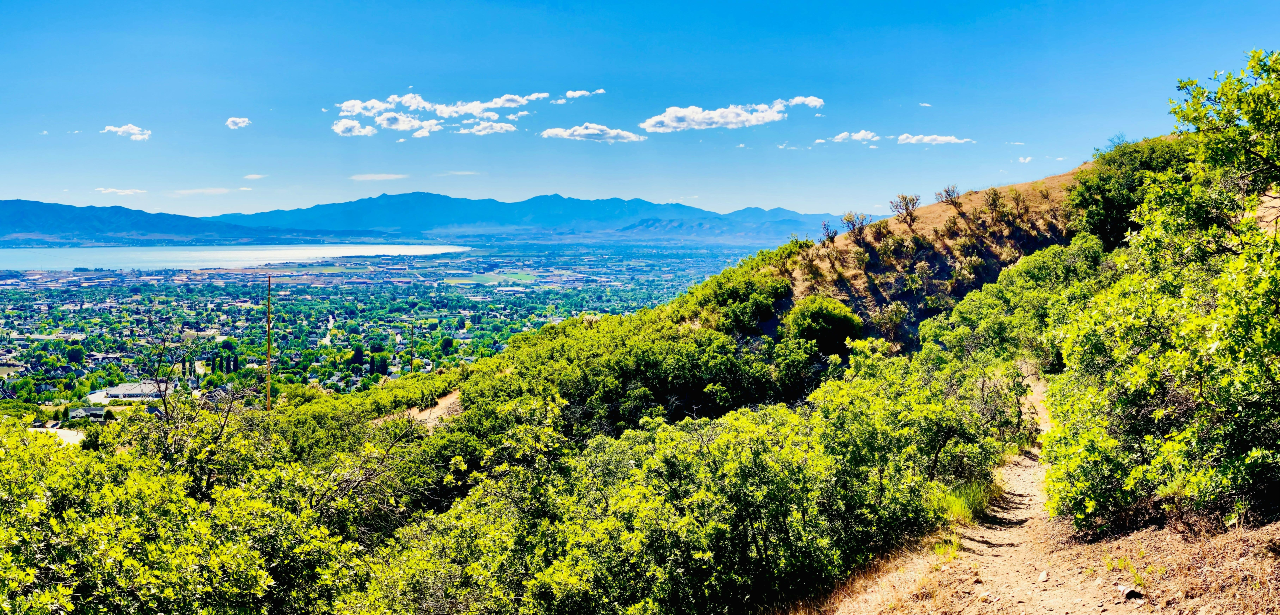
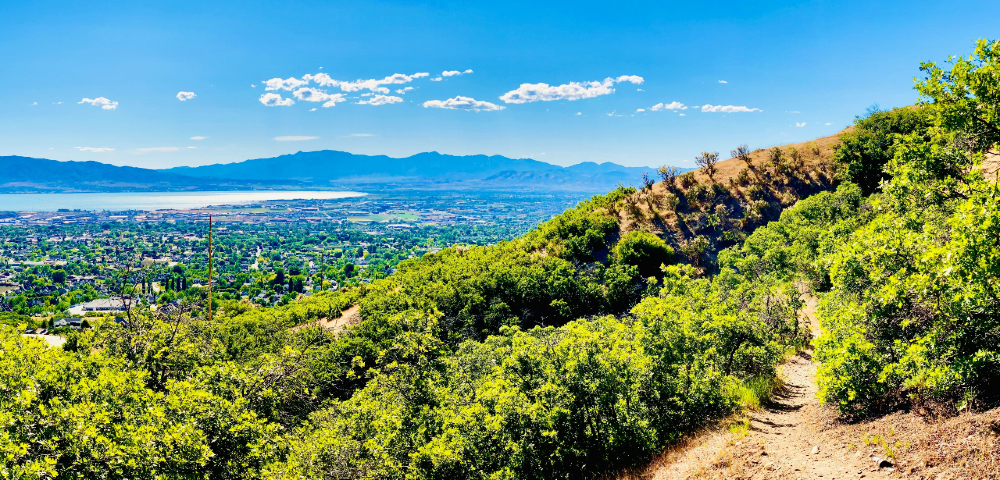
changed size of pictures

diff --git a/chamber/discover.html b/chamber/discover.html
@@ -95,46 +95,46 @@
                 <p>Residents used 1.1 billion gallons of secondary water last year.</p>
             </section>
 
-            <figure class="img-1">
-                <source srcset="images/lindon-smaller.webp" media="(max-width: 600px)">
-                <img id="lindon-img" src="images/lindon-trail.webp" alt="heritage trail" width="375" height="500" loading="lazy">
-                <figcaption>Heritage Trail</figcaption>
-            </figure>
-            <figure class="img-2">
-                <source srcset="images/lindon-smaller.webp" media="(max-width: 600px)">
-                <img id="lindon-img" src="images/utah-lake.webp" alt="utah lake" width="640" height="340" loading="lazy">
-                <figcaption>Utah Lake</figcaption>
-            </figure>
-            <figure class="img-3">
-                <source srcset="images/lindon-smaller.webp" media="(max-width: 600px)">
-                <img id="lindon-img" src="images/wadley-farms.webp" alt="wadley farms" width="1000" height="667" loading="lazy">
-                <figcaption>Wadley Farms Event Venue</figcaption>
-            </figure>
-            <figure class="img-4">
-                <source srcset="images/lindon-smaller.webp" media="(max-width: 600px)">
-                <img id="lindon-img" src="images/lindon-temple.webp" alt="lindon temple" width="720" height="720" loading="lazy">
-                <figcaption>Lindon LDS Temple</figcaption>
-            </figure>
-            <figure class="img-5">
-                <source srcset="images/lindon-smaller.webp" media="(max-width: 600px)">
-                <img id="lindon-img" src="images/lindon-days.webp" alt="lindon days" width="383" height="480" loading="lazy">
-                <figcaption>Lindon Days</fi>
-            </figure>
-            <figure class="img-6">
-                <source srcset="images/lindon-smaller.webp" media="(max-width: 600px)">
-                <img id="lindon-img" src="images/aquatics-center.webp" alt="lindon aquatics center" width="750" height="465" loading="lazy">
-                <figcaption>Lindon Aquatics Center</f>
-            </figure>
-            <figure class="img-7">
-                <source srcset="images/lindon-smaller.webp" media="(max-width: 600px)">
-                <img id="lindon-img" src="images/harley-davidson.webp" alt="harley davidson store" width="600" height="404" loading="lazy">
-                <figcaption>Timpanogos Harley Davidson</figcaption>
-            </figure>
-            <picture class="img-8">
-                <source srcset="images/artisan-small.webp" media="(max-width: 600px)">
-                <img id="lindon-img" src="images/artisan.webp" alt="artisan on state hair salon" width="960" height="1280" loading="lazy">
+            <picture class="img-1">
+                <source srcset="images/lindon-trail-small.webp" media="(max-width: 499px)">
+                <img class="lindon-img" src="images/lindon-trail.webp" alt="heritage trail" width="1000" height="480" loading="lazy">
+                <p>Heritage Trail</p>
             </picture>
-            <p>Artisan Hair Salon on State</p>
+            <picture class="img-2">
+                <source srcset="images/utah-lake-small.webp" media="(max-width: 499px)">
+                <img class="lindon-img" src="images/utah-lake.webp" alt="utah lake" width="640" height="340" loading="lazy">
+                <p>Utah Lake</p>
+            </picture>
+            <picture class="img-3">
+                <source srcset="images/wadley-farms-small.webp" media="(max-width: 499px)">
+                <img class="lindon-img" src="images/wadley-farms.webp" alt="wadley farms" width="1000" height="667" loading="lazy">
+                <p>Wadley Farms Event Venue</p>
+            </picture>
+            <picture class="img-4">
+                <source srcset="images/lindon-temple-small.webp" media="(max-width: 499px)">
+                <img class="lindon-img" src="images/lindon-temple.webp" alt="lindon temple" width="720" height="720" loading="lazy">
+                <p>Lindon LDS Temple</p>
+            </picture>
+            <picture class="img-5">
+                <source srcset="images/lindon-days-small.webp" media="(max-width: 499px)">
+                <img class="lindon-img" src="images/lindon-days.webp" alt="lindon days" width="1000" height="1376" loading="lazy">
+                <p>Lindon Days</fi>
+            </picture>
+            <picture class="img-6">
+                <source srcset="images/aquatics-center-small.webp" media="(max-width: 499px)">
+                <img class="lindon-img" src="images/aquatics-center.webp" alt="lindon aquatics center" width="750" height="465" loading="lazy">
+                <p>Lindon Aquatics Center</f>
+            </picture>
+            <picture class="img-7">
+                <source srcset="images/harley-davidson-small.webp" media="(max-width: 499px)">
+                <img class="lindon-img" src="images/harley-davidson.webp" alt="harley davidson store" width="600" height="404" loading="lazy">
+                <p>Timpanogos Harley Davidson</p>
+            </picture>
+            <picture class="img-8">
+                <source srcset="images/artisan-small.webp" media="(max-width: 499px)">
+                <img class="lindon-img" src="images/artisan.webp" alt="artisan on state hair salon" width="960" height="1280" loading="lazy">
+                <p>Artisan Hair Salon on State</p>
+            </picture>
 
         </div>
     </main>

diff --git a/chamber/styles/base.css b/chamber/styles/base.css
@@ -1,5 +1,5 @@
 @import url('https://fonts.googleapis.com/css2?family=Lora&family=Cabin:ital,wght@0,400;0,700;1,400&display=swap');
-@media only screen and (max-width: 600px) {
+@media only screen and (max-width: 499px) {
 
     /* || General Styling */
     
@@ -26,6 +26,11 @@
         overflow: hidden;
     }
 
+    img {
+		max-width: 100%;
+		max-height: 100%;
+		align-content: center;
+	}
     /* || Header & Nav Bar Styling */
 
 
@@ -112,7 +117,6 @@
         margin-left: auto;
         margin-right: auto;
         display: block;
-        opacity: .5;
     }
 
     .hero-small {
@@ -250,81 +254,10 @@
 
     #weather-img {
         display: none;
-    }
-
-        /* || Discovery - Main Images */
-
-
-        .discovery-grid {
-            display: flex;
-            flex-direction: column;
-            /* grid-gap: 10px;
-            grid-template-columns: 30% 70%;
-            grid-template-rows: 5%; */
-            text-align: center;
-            margin-top: 50px;
-        }
-
-        .info {
-            padding: 10px;
-            /* grid-column: 1; */
-        }
-
-        /* .img-1 {
-            object-fit: contain;
-            grid-column: 2;
-            grid-row: 1;
-    
-        }
-    
-        .img-2 {
-            grid-column: 2;
-            grid-row: 2;
-            object-fit: cover;
-        }
-    
-        .img-3 {
-            grid-column: 2;
-            grid-row: 3;
-            object-fit: cover;
-        }
-    
-        .img-4 {
-            grid-column: 2;
-            grid-row: 4;
-            object-fit: cover;
-        }
-    
-        .img-5 {
-            grid-column: 2;
-            grid-row: 5;
-        }
-    
-        .img-6 {
-            grid-column: 2;
-            grid-row: 6;
-        }
-    
-        .img-7 {
-            grid-column: 2;
-            grid-row: 7;
-        }
-    
-        .img-8 {
-            grid-column: 2;
-            grid-row: 8;
-        } */
-    
-    
-            /* || Discovery - Sidebar */
-    
-        .sidebar {
-            background-color: #deebff;
-        }
-    
+    }    
         
-    /* || Footer */
 
+    /* || Footer */
 
     footer {
         background-color: #475262;
@@ -364,4 +297,36 @@
     }
 
 
+    /* || Discovery - Main Images */
+
+    .discovery-grid {
+        display: flex;
+        flex-direction: column;
+        /* grid-gap: 10px;
+        grid-template-columns: 30% 70%;
+        grid-template-rows: 5%; */
+        text-align: center;
+        margin-top: 50px;
+    }
+
+    .info {
+        padding: 10px;
+        /* grid-column: 1; */
+    }
+
+    .lindon-img {
+        width: 100%;
+        height: 100%;
+        object-fit: cover;
+        margin-left: auto;
+        margin-right: auto;
+        display: block;
+    }
+    
+    
+    /* || Discovery - Sidebar */
+
+    .sidebar {
+        background-color: #deebff;
+    }
 }

diff --git a/chamber/styles/larger.css b/chamber/styles/larger.css
@@ -1,5 +1,5 @@
 @import url('https://fonts.googleapis.com/css2?family=Lora&family=Cabin:ital,wght@0,400;0,700;1,400&display=swap');
-@media only screen and (min-width: 601px) {
+@media only screen and (min-width: 500px) {
 
     /* || General Styling */
 
